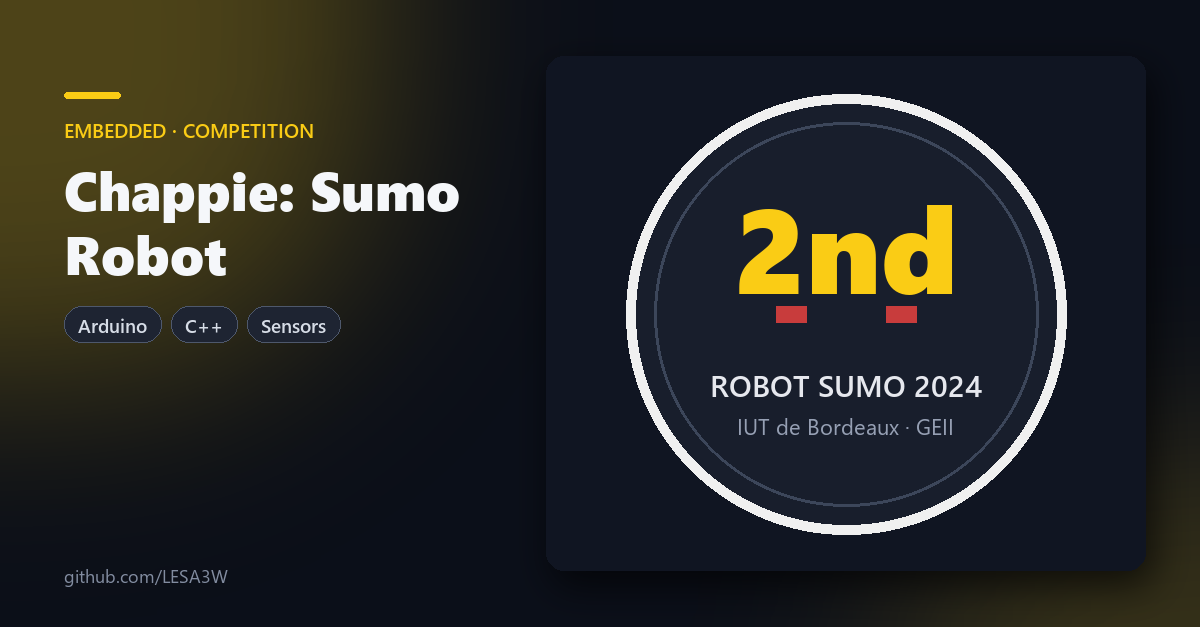
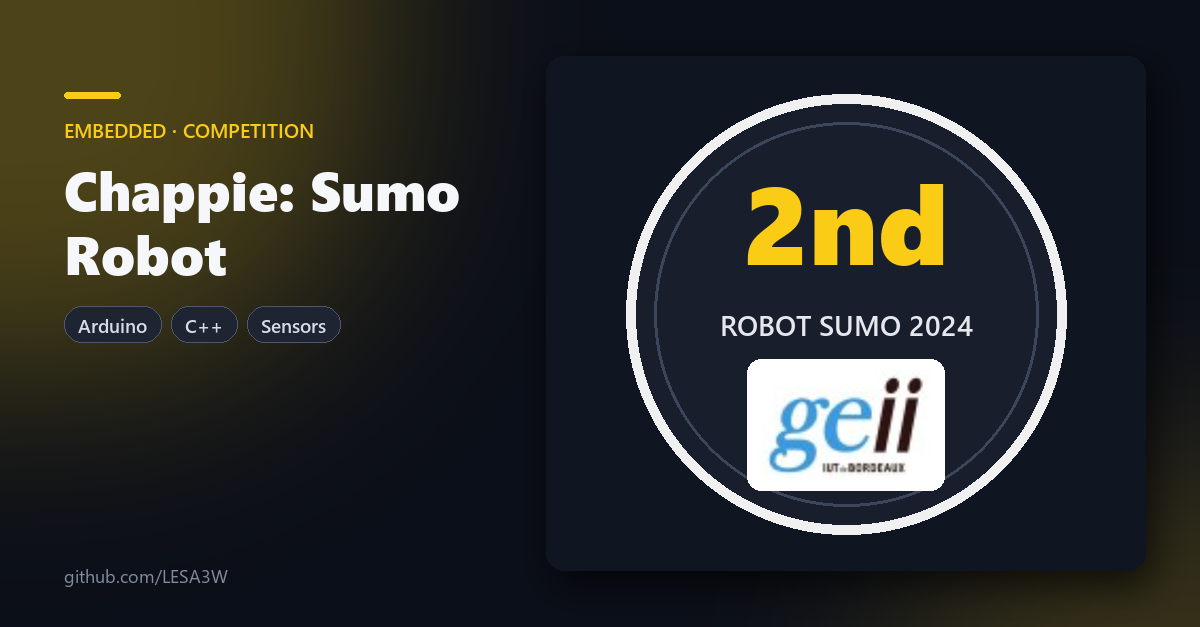
Reorder projects, refresh covers and add arm photo

Changed region(s): [[0.5858, 0.2727, 0.8325, 0.7879]]

diff --git a/README.md b/README.md
@@ -18,30 +18,30 @@
 <table>
 <tr>
 <td width="50%" valign="top">
-<a href="https://github.com/LESA3W/atable-app"><img src="assets/projects/atable.png" alt="🍽 Atable" width="100%"></a>
-<h3><a href="https://github.com/LESA3W/atable-app">🍽 Atable</a></h3>
-<p>Family meal planner, <b>live on the App Store</b>. Everyone sets their tastes, the app suggests meals the whole family likes and builds the shopping list.</p>
-<p><sub><a href="https://apps.apple.com/fr/app/ataaable/id6789919604">App Store</a> · <a href="https://a-taaaable.vercel.app">Web app</a> · <a href="https://github.com/LESA3W/atable-app">Code</a></sub></p>
+<a href="https://github.com/LESA3W/aitb"><img src="assets/projects/aitb.png" alt="📈 A.I.T.B Trading Bot" width="100%"></a>
+<h3><a href="https://github.com/LESA3W/aitb">📈 A.I.T.B Trading Bot</a></h3>
+<p>Autonomous MetaTrader 5 trading bot with its own <b>backtesting engine</b>, walk-forward research, prop firm guard rail and live dashboards.</p>
+<p><sub><a href="https://github.com/LESA3W/aitb">Code</a></sub></p>
 </td>
-<td width="50%" valign="top">
-<a href="https://github.com/LESA3W/Pandsy"><img src="assets/projects/pandsy.png" alt="🏭 Pandsy" width="100%"></a>
-<h3><a href="https://github.com/LESA3W/Pandsy">🏭 Pandsy</a></h3>
-<p>GTM engine that built and cold-emailed <b>2,887 local-business websites</b> in 4 months: scraping, ~90 s site generation, deploy and outreach, orchestrated by n8n.</p>
-<p><sub><a href="https://github.com/LESA3W/Pandsy">Code &amp; write-up</a></sub></p>
-</td>
-</tr>
-<tr>
 <td width="50%" valign="top">
 <a href="https://github.com/LESA3W/ypia-app"><img src="assets/projects/ypia.png" alt="🧠 ypia." width="100%"></a>
 <h3><a href="https://github.com/LESA3W/ypia-app">🧠 ypia.</a></h3>
 <p>Claude-powered assistant that lives in Telegram, <b>remembers you</b> and runs proactive routines, plus the private web console to steer it.</p>
 <p><sub><a href="https://github.com/LESA3W/ypia-app">Code</a></sub></p>
 </td>
+</tr>
+<tr>
 <td width="50%" valign="top">
-<a href="https://github.com/LESA3W/aitb"><img src="assets/projects/aitb.png" alt="📈 A.I.T.B" width="100%"></a>
-<h3><a href="https://github.com/LESA3W/aitb">📈 A.I.T.B</a></h3>
-<p>Autonomous MetaTrader 5 trading bot with its own <b>backtesting engine</b>, walk-forward research, prop firm guard rail and live dashboards.</p>
-<p><sub><a href="https://github.com/LESA3W/aitb">Code</a></sub></p>
+<a href="https://github.com/LESA3W/Pandsy"><img src="assets/projects/pandsy.png" alt="🏭 Pandsy" width="100%"></a>
+<h3><a href="https://github.com/LESA3W/Pandsy">🏭 Pandsy</a></h3>
+<p>GTM engine that built and cold-emailed <b>2,887 local-business websites</b> in 4 months: scraping, ~90 s site generation, deploy and outreach, orchestrated by n8n.</p>
+<p><sub><a href="https://github.com/LESA3W/Pandsy">Code &amp; write-up</a></sub></p>
+</td>
+<td width="50%" valign="top">
+<a href="https://github.com/LESA3W/atable-app"><img src="assets/projects/atable.png" alt="🍽 Atable" width="100%"></a>
+<h3><a href="https://github.com/LESA3W/atable-app">🍽 Atable</a></h3>
+<p>Family meal planner, <b>live on the App Store</b>. Everyone sets their tastes, the app suggests meals the whole family likes and builds the shopping list.</p>
+<p><sub><a href="https://apps.apple.com/fr/app/ataaable/id6789919604">App Store</a> · <a href="https://a-taaaable.vercel.app">Web app</a> · <a href="https://github.com/LESA3W/atable-app">Code</a></sub></p>
 </td>
 </tr>
 <tr>
@@ -52,38 +52,39 @@
 <p><sub><a href="https://github.com/LESA3W/reelsbrain">Code</a></sub></p>
 </td>
 <td width="50%" valign="top">
+<a href="https://github.com/LESA3W/El_Chappo"><img src="assets/projects/el-chappo.png" alt="🦾 El Chappo The Arm" width="100%"></a>
+<p align="center"><img src="assets/projects/el-chappo-arm.jpg" alt="El Chappo, the arm built from scratch" width="55%"></p>
+<h3><a href="https://github.com/LESA3W/El_Chappo">🦾 El Chappo The Arm</a></h3>
+<p>Robotic arm <b>built from A to Z</b> by replicating Arduino's orange arm kit, driven from the browser with joysticks and live motor feedback.</p>
+<p><sub><a href="https://lesa3w.github.io/El_Chappo/">Live demo</a> · <a href="https://github.com/LESA3W/El_Chappo">Code</a></sub></p>
+</td>
+</tr>
+<tr>
+<td width="50%" valign="top">
 <img src="assets/projects/star-trek.png" alt="🚀 Star Trek · Epitech" width="100%">
 <h3>🚀 Star Trek · Epitech</h3>
 <p>DQN and PPO agents that learn to land on the Moon. PPO solves Lunar Lander with a <b>259.6 mean score</b> and 299/300 clean landings.</p>
 <p><sub><i>School project, private repo</i></sub></p>
 </td>
+<td width="50%" valign="top">
+<a href="https://github.com/LESA3W/Arduino_Robot_Sumo"><img src="assets/projects/robot-sumo.png" alt="🏆 Chappie Sumo Robot" width="100%"></a>
+<h3><a href="https://github.com/LESA3W/Arduino_Robot_Sumo">🏆 Chappie Sumo Robot</a></h3>
+<p>Arduino program of the robot that took <b>2nd place</b> at the 2024 regional Robot Sumo contest (IUT de Bordeaux, GEII).</p>
+<p><sub><a href="https://github.com/LESA3W/Arduino_Robot_Sumo">Code</a> · <a href="https://www.linkedin.com/posts/visite-des-%C3%A9tudiants-de-tsukuba-suite-et-ugcPost-7184459110245945344-IYI2/">Competition post</a></sub></p>
+</td>
 </tr>
 <tr>
-<td width="50%" valign="top">
-<img src="assets/projects/cvrie.png" alt="🩻 CVRIE · Epitech" width="100%">
-<h3>🩻 CVRIE · Epitech</h3>
-<p>Chest X-ray pneumonia classifier (PCA + SVM). <b>90.7% accuracy</b> on MedMNIST, ahead of the paper's ResNet-18 and ResNet-50 baselines.</p>
-<p><sub><i>School project, private repo</i></sub></p>
-</td>
 <td width="50%" valign="top">
 <a href="https://github.com/LESA3W/Lego_Scraper_Bot"><img src="assets/projects/lego-scraper-bot.png" alt="🤖 Lego Scraper Bot" width="100%"></a>
 <h3><a href="https://github.com/LESA3W/Lego_Scraper_Bot">🤖 Lego Scraper Bot</a></h3>
 <p>Discord bot that scans LeBonCoin and Vinted <b>in real time</b> for underpriced Lego sets and filters out scams.</p>
 <p><sub><a href="https://github.com/LESA3W/Lego_Scraper_Bot">Code</a></sub></p>
 </td>
-</tr>
-<tr>
 <td width="50%" valign="top">
-<a href="https://github.com/LESA3W/El_Chappo"><img src="assets/projects/el-chappo.png" alt="🦾 El Chappo The Arm" width="100%"></a>
-<h3><a href="https://github.com/LESA3W/El_Chappo">🦾 El Chappo The Arm</a></h3>
-<p>Web app to drive a robotic arm remotely, with <b>joystick control</b> and live motor feedback.</p>
-<p><sub><a href="https://lesa3w.github.io/El_Chappo/">Live demo</a> · <a href="https://github.com/LESA3W/El_Chappo">Code</a></sub></p>
-</td>
-<td width="50%" valign="top">
-<a href="https://github.com/LESA3W/Arduino_Robot_Sumo"><img src="assets/projects/robot-sumo.png" alt="🏆 Chappie Sumo Robot" width="100%"></a>
-<h3><a href="https://github.com/LESA3W/Arduino_Robot_Sumo">🏆 Chappie Sumo Robot</a></h3>
-<p>Arduino program of the robot that took <b>2nd place</b> at the 2024 regional Robot Sumo contest (IUT de Bordeaux, GEII).</p>
-<p><sub><a href="https://github.com/LESA3W/Arduino_Robot_Sumo">Code</a></sub></p>
+<img src="assets/projects/cvrie.png" alt="🩻 CVRIE · Epitech" width="100%">
+<h3>🩻 CVRIE · Epitech</h3>
+<p>Chest X-ray pneumonia classifier (PCA + SVM). <b>90.7% accuracy</b> on MedMNIST, ahead of the paper's ResNet-18 and ResNet-50 baselines.</p>
+<p><sub><i>School project, private repo</i></sub></p>
 </td>
 </tr>
 </table>
